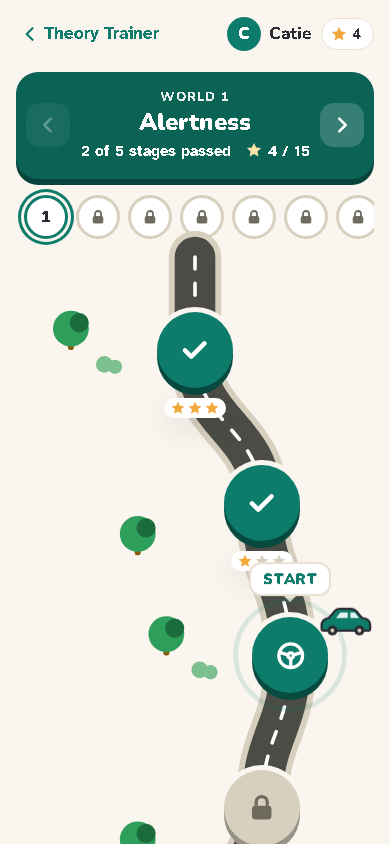
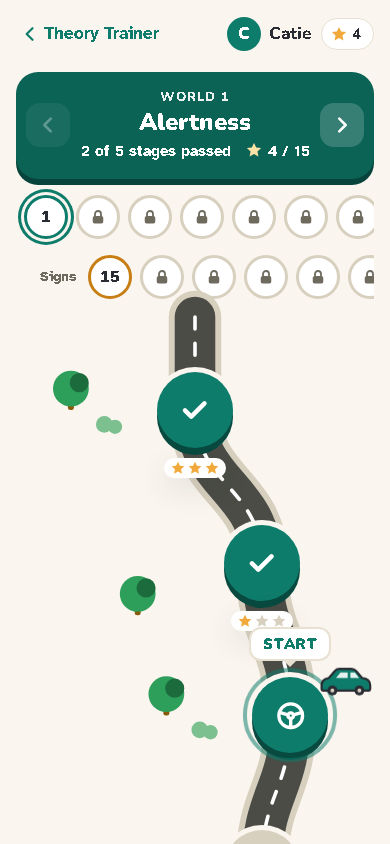
docs(#48): retake the Road Signs and Adventure map help pictures
Road Signs now opens on the category buttons with their counts; the Adventure map
has a second row of world buttons for the sign worlds. Both taken at 390 x 844,
light, in the local browser check; alt text says what each now shows.

diff --git a/help.html b/help.html
@@ -296,7 +296,7 @@
             <p class="note"><strong>Only real questions.</strong> Every topic stage is made from the app's question bank, and every sign stage from The Highway Code's own pictures and captions. Adventure mode never writes a question or an answer of its own.</p>
           </div>
           <figure class="shot">
-            <a href="help/img/adventure-map.png"><img src="help/img/adventure-map.png" width="390" height="844" alt="The Adventure map for World 1, Alertness: 2 of 5 stages passed and 4 of 15 stars, and 4 stars in the top bar. A winding road with two passed lessons, one with 3 stars and one with 1 star, then the lesson she is up to with a little car and a Start label, and a locked stage with a padlock further down." loading="lazy"></a>
+            <a href="help/img/adventure-map.png"><img src="help/img/adventure-map.png" width="390" height="844" alt="The Adventure map for World 1, Alertness: 2 of 5 stages passed and 4 of 15 stars, and 4 stars in the top bar. Under it two rows of round world buttons: the topic worlds, then the sign worlds, labelled Signs, starting with an open world 15. A winding road with two passed lessons, one with 3 stars and one with 1 star, then the lesson she is up to with a little car and a Start label." loading="lazy"></a>
             <figcaption>The Adventure map</figcaption>
           </figure>
         </div>
@@ -488,7 +488,7 @@
             <p class="note">Road sign, road marking, light signal and vehicle marking images: Crown copyright, Department for Transport and The Highway Code. Contains public sector information licensed under the Open Government Licence v3.0. <a href="https://www.nationalarchives.gov.uk/doc/open-government-licence/version/3/">Read the licence</a>.</p>
           </div>
           <figure class="shot">
-            <a href="help/img/road-signs.png"><img src="help/img/road-signs.png" width="390" height="844" alt="The Road Signs screen: a Quiz me on the signs button, then official sign pictures in two columns, each with its name and official meaning: Stop, Give way, No entry and No overtaking, with the 20 and 30 limits below." loading="lazy"></a>
+            <a href="help/img/road-signs.png"><img src="help/img/road-signs.png" width="390" height="844" alt="The Road Signs screen: a line saying it holds 205 Highway Code pictures and 7 more signs from the Department for Transport, the Quiz me on all signs button, then a button for each category with how many pictures it has: Signs giving orders 47, Warning signs 50, Direction signs 21, Information signs 24, Road work signs 11, Road markings 28, Light signals controlling traffic 14, Vehicle markings 10, and More signs from the Department for Transport 7. The Signs giving orders heading starts below them." loading="lazy"></a>
             <figcaption>Road Signs</figcaption>
           </figure>
         </div>
